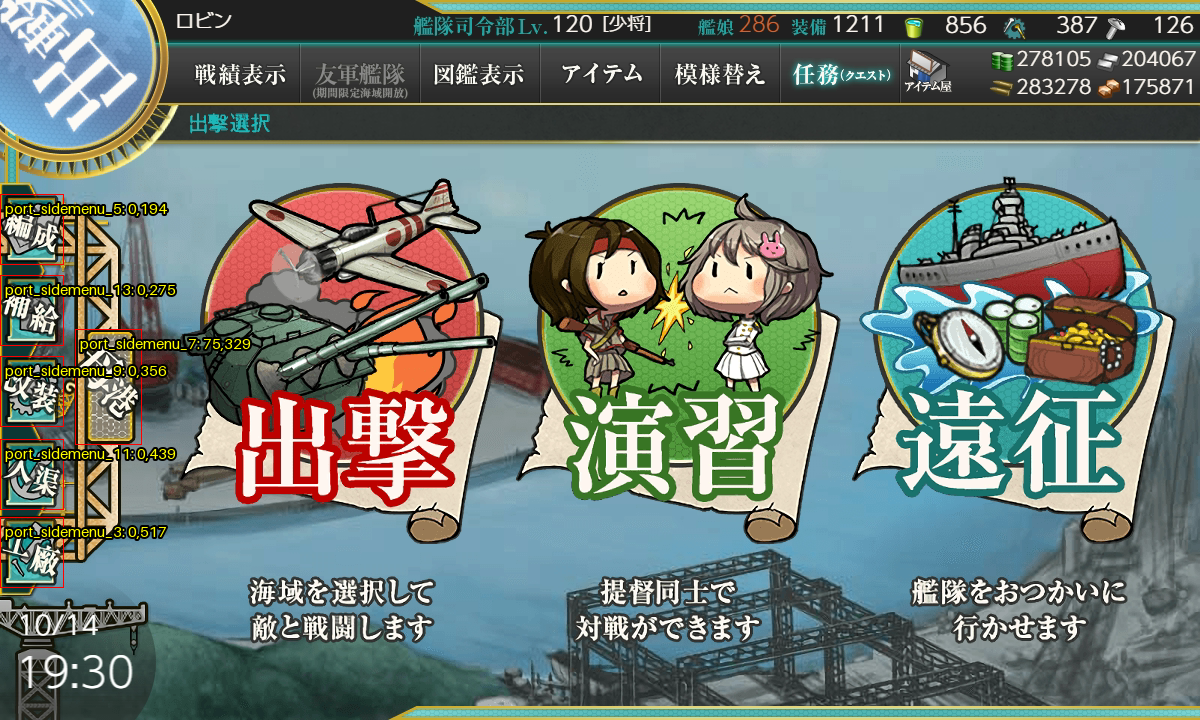
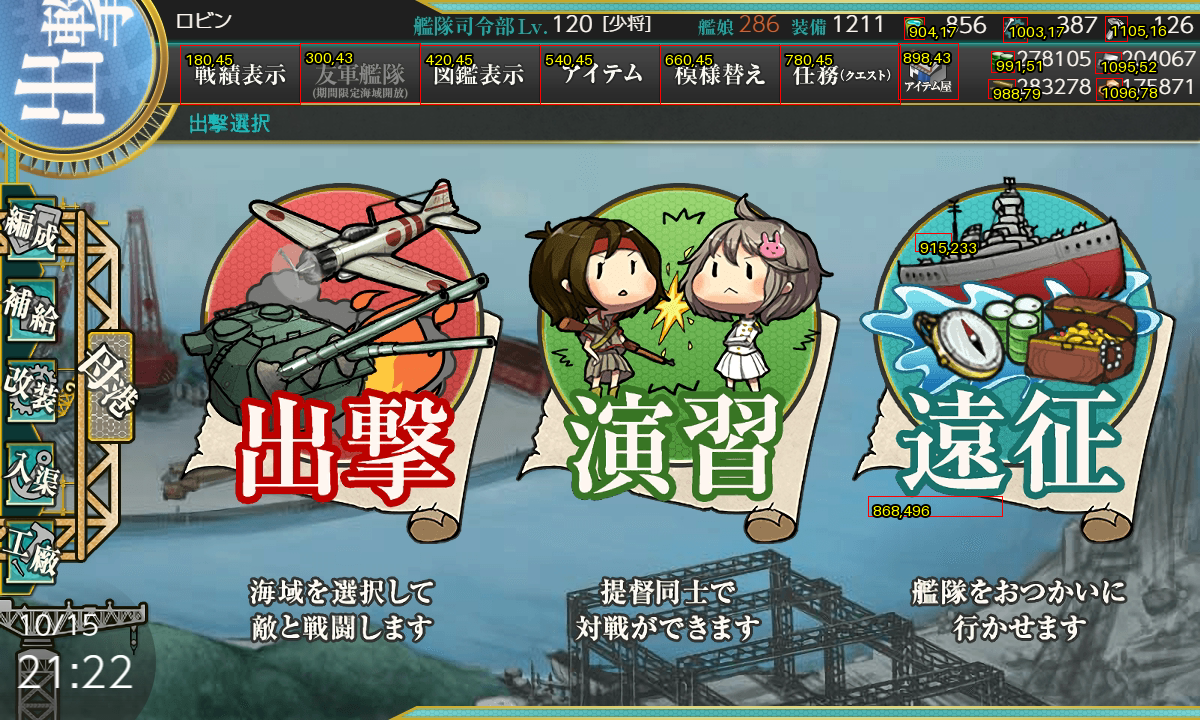
addjust position

diff --git a/src/scene/port/PortTopMenu.jsx b/src/scene/port/PortTopMenu.jsx
@@ -96,40 +96,40 @@ export const PortTopMenu = (props) => {
             <Sprite texture={portSkin[29]} x={790} y={18} />
             <Text text={"1210"} x={833} y={16} style={font} />
             {/* 高速修復 */}
-            <Sprite texture={portSkin[22]} x={900} y={16} />
+            <Sprite texture={portSkin[22]} x={904} y={17} />
             <Text text={"3000"} x={940} y={16} style={font} />
             {/* 開発資材 */}
-            <Sprite texture={portSkin[23]} x={1000} y={16} />
+            <Sprite texture={portSkin[23]} x={1003} y={17} />
             <Text text={"3000"} x={1040} y={16} style={font} />
             {/* 改修資材 */}
-            <Sprite texture={portSkin[24]} x={1100} y={16} />
+            <Sprite texture={portSkin[24]} x={1105} y={16} />
             <Text text={"3000"} x={1140} y={16} style={font} />
             {/* 燃料 */}
-            <Sprite texture={portSkin[18]} x={990} y={50} />
+            <Sprite texture={portSkin[18]} x={991} y={51} />
             <Text text={"300000"} x={1020} y={49} style={font} />
             {/* 弾薬 */}
-            <Sprite texture={portSkin[19]} x={990} y={79} />
+            <Sprite texture={portSkin[19]} x={988} y={79} />
             <Text text={"300000"} x={1020} y={78} style={font} />
             {/* 鋼 */}
-            <Sprite texture={portSkin[20]} x={1096} y={50} />
+            <Sprite texture={portSkin[20]} x={1095} y={52} />
             <Text text={"300000"} x={1126} y={49} style={font} />
             {/* ボーキサイト */}
-            <Sprite texture={portSkin[21]} x={1096} y={79} />
+            <Sprite texture={portSkin[21]} x={1096} y={78} />
             <Text text={"300000"} x={1126} y={78} style={font} />
             {/* 戦績表示 */}
             <PixiButton default={portSkin[40]} hover={portSkin[41]} x={180} y={45} />
             {/* 友軍艦隊 */}
-            <PixiButton default={portSkin[45]} hover={portSkin[46]} x={298} y={43} />
+            <PixiButton default={portSkin[45]} hover={portSkin[46]} x={300} y={43} />
             {/* 図鑑表示 */}
-            <PixiButton default={portSkin[47]} hover={portSkin[48]} x={418} y={45} />
+            <PixiButton default={portSkin[47]} hover={portSkin[48]} x={420} y={45} />
             {/* アイテム */}
             <PixiButton default={portSkin[33]} hover={portSkin[34]} x={540} y={45} />
             {/* 模様替え */}
-            <PixiButton default={portSkin[35]} hover={portSkin[36]} x={663} y={45} />
+            <PixiButton default={portSkin[35]} hover={portSkin[36]} x={660} y={45} />
             {/* 任務（クエスト） */}
             <PixiButton default={portSkin[37]} hover={portSkin[38]} x={780} y={45} />
             {/* アイテム屋 */}
-            <PixiButton default={portSkin[25]} hover={portSkin[26]} x={900} y={45} />
+            <PixiButton default={portSkin[25]} hover={portSkin[26]} x={898} y={43} />
         </Container>
     );
 

diff --git a/refer_tools/coordinateAssist.py b/refer_tools/coordinateAssist.py
@@ -6,18 +6,29 @@ import cv2
 import numpy as np
 
 base_path = "/Users/jsyfer/GitHub/kcs_re_pixi/"
-spritesheet_json = base_path + "assets/kcs2/img/port/port_sidemenu.json"
+spritesheet_json = base_path + "assets/kcs2/img/port/port_skin_1.json"
 
 spritesheet_image = spritesheet_json.replace(".json",".png")
-refer_image = '/Volumes/file-server/kcs_re/2024-10-14T19.30.47.png'
+refer_image = '/Volumes/file-server/kcs_re/2024-10-15T21.22.20.png'
 samples = 5
 name_list = [
-    "port_sidemenu_5",
-    "port_sidemenu_13",
-    "port_sidemenu_9",
-    "port_sidemenu_11",
-    "port_sidemenu_3",
-    "port_sidemenu_7",
+    "port_skin_1_40",
+    "port_skin_1_45",
+    "port_skin_1_47",
+    "port_skin_1_33",
+    "port_skin_1_35",
+    "port_skin_1_37",
+    "port_skin_1_25",
+    "port_skin_1_27",
+    "port_skin_1_28",
+    "port_skin_1_29",
+    "port_skin_1_22",
+    "port_skin_1_23",
+    "port_skin_1_24",
+    "port_skin_1_18",
+    "port_skin_1_19",
+    "port_skin_1_20",
+    "port_skin_1_21",
 ]
 
 def load_spritesheet(json_file):
@@ -78,7 +89,7 @@ for item in get_images_in_json(name_list):
     coordinate_info = f"{spriteName}: {x},{y}"
     print(coordinate_info)
     draw.rectangle((x, y, x + sprite.size [0], y + sprite.size [1] ), outline = 'red')
-    draw.text((x +5 , y + 5) , coordinate_info, fill="yellow", font_size=15, stroke_width=2, stroke_fill="black")
+    draw.text((x +5 , y + 5) , f"{x},{y}", fill="yellow", font_size=15, stroke_width=2, stroke_fill="black")
 
 refer.save('result.png')
 shutil.rmtree(temp_dir)
